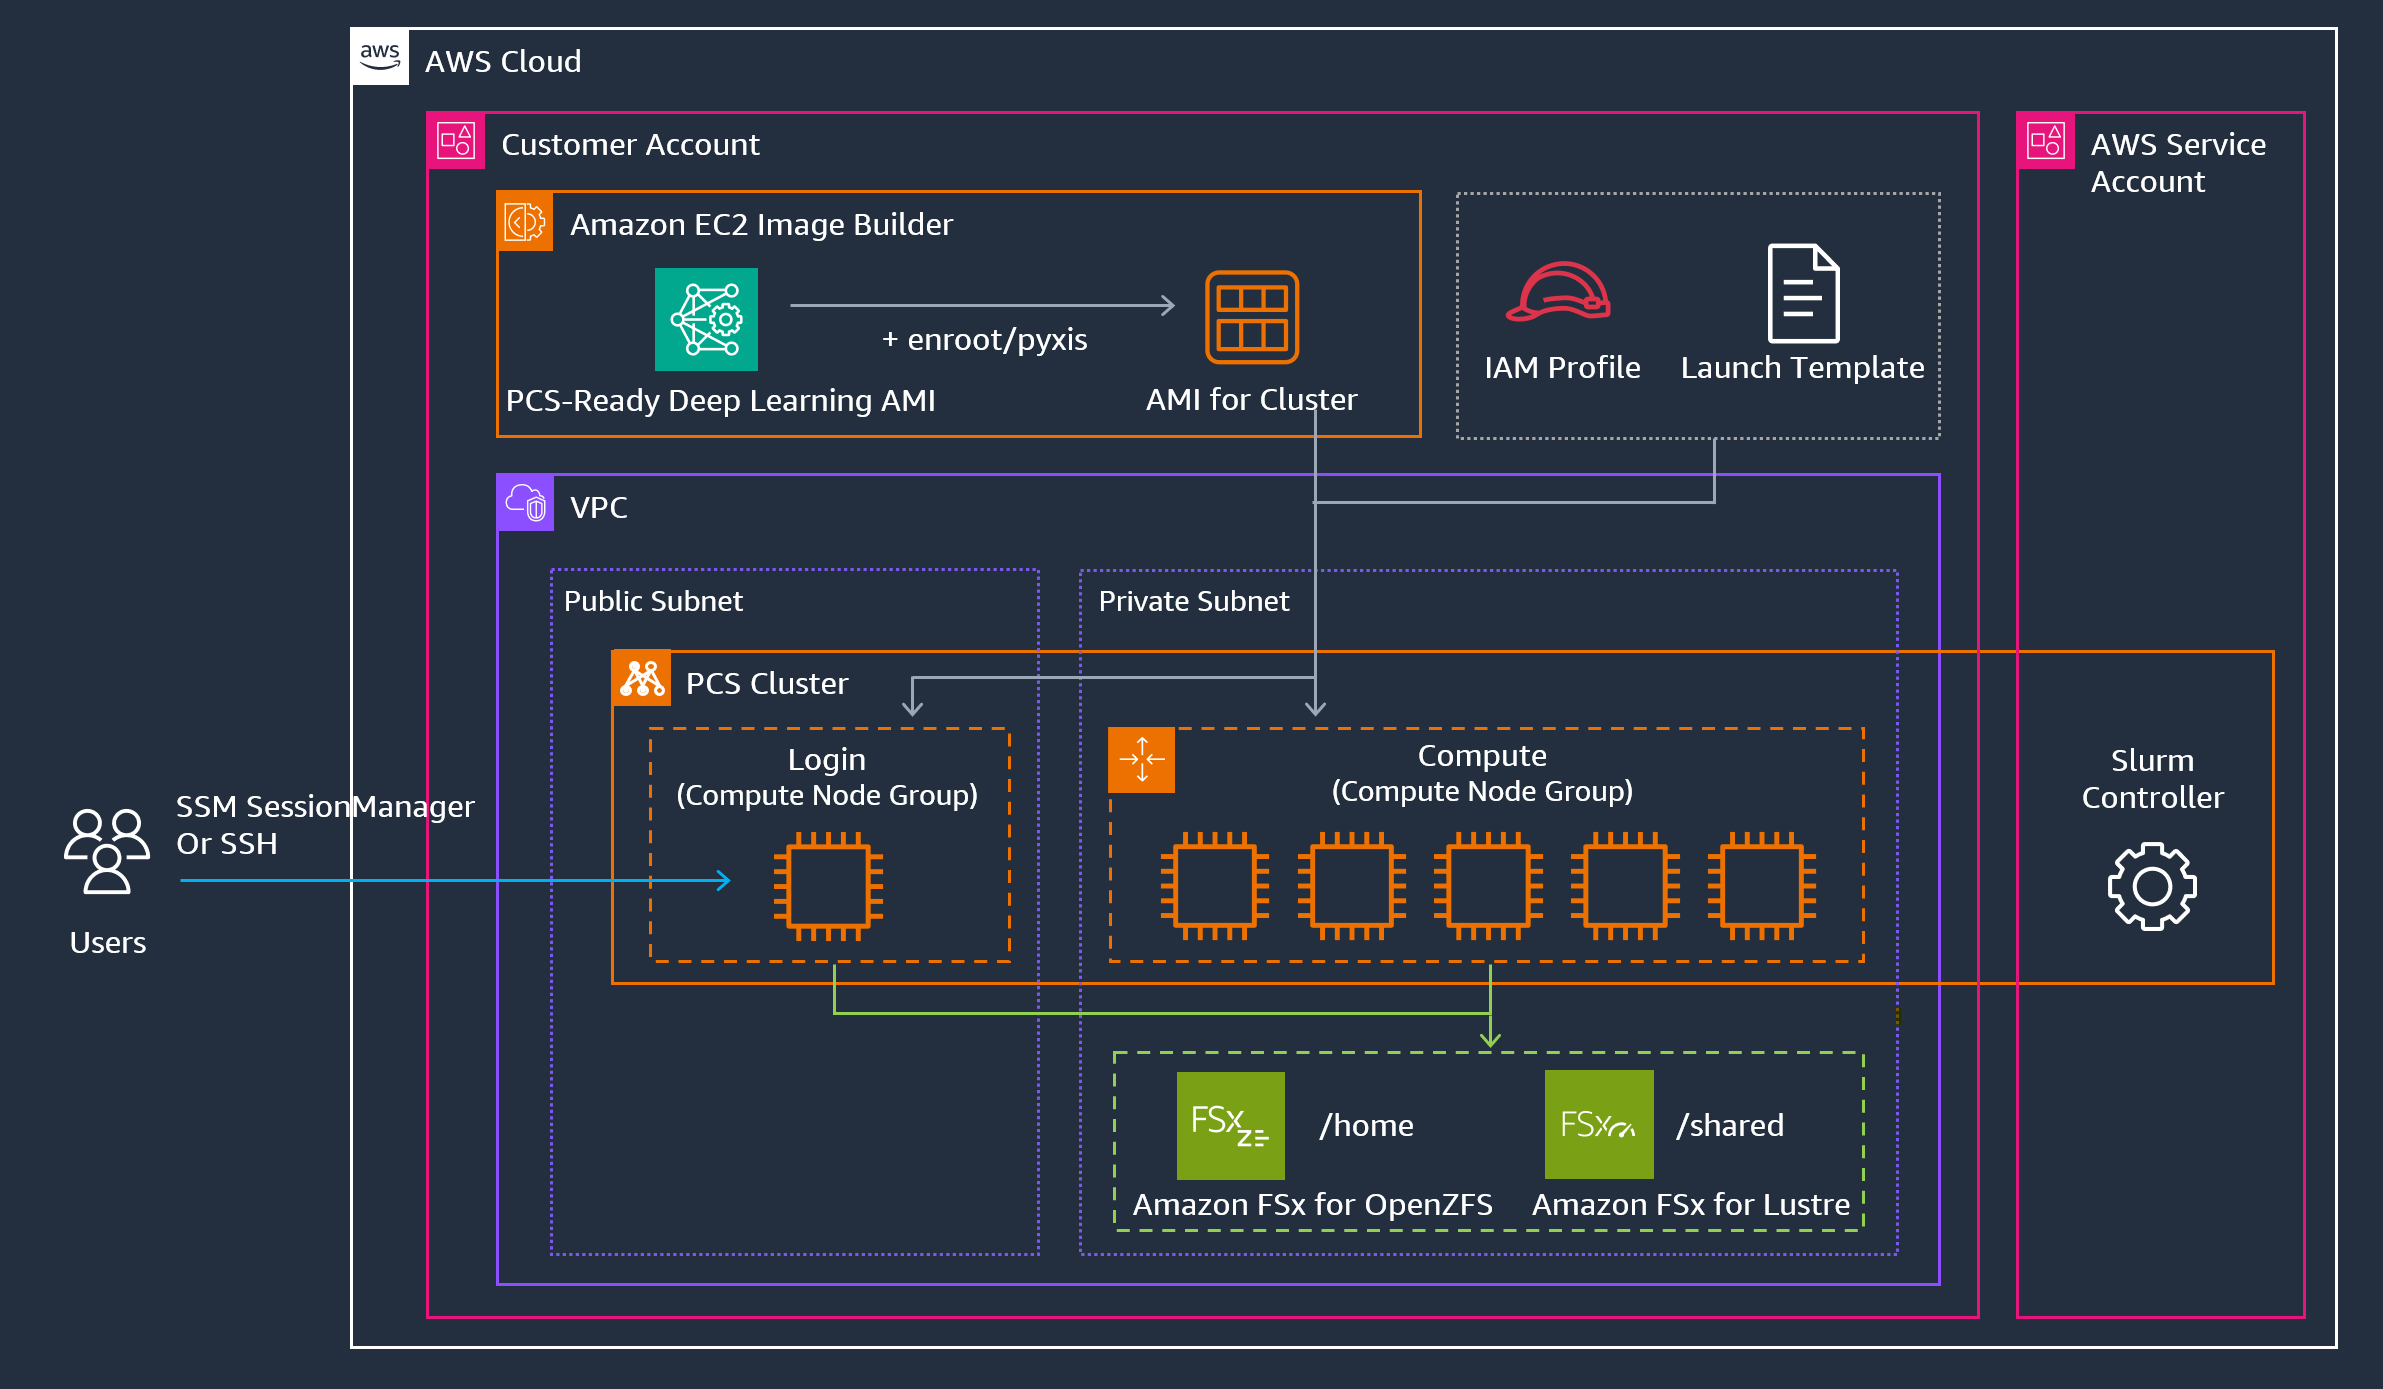
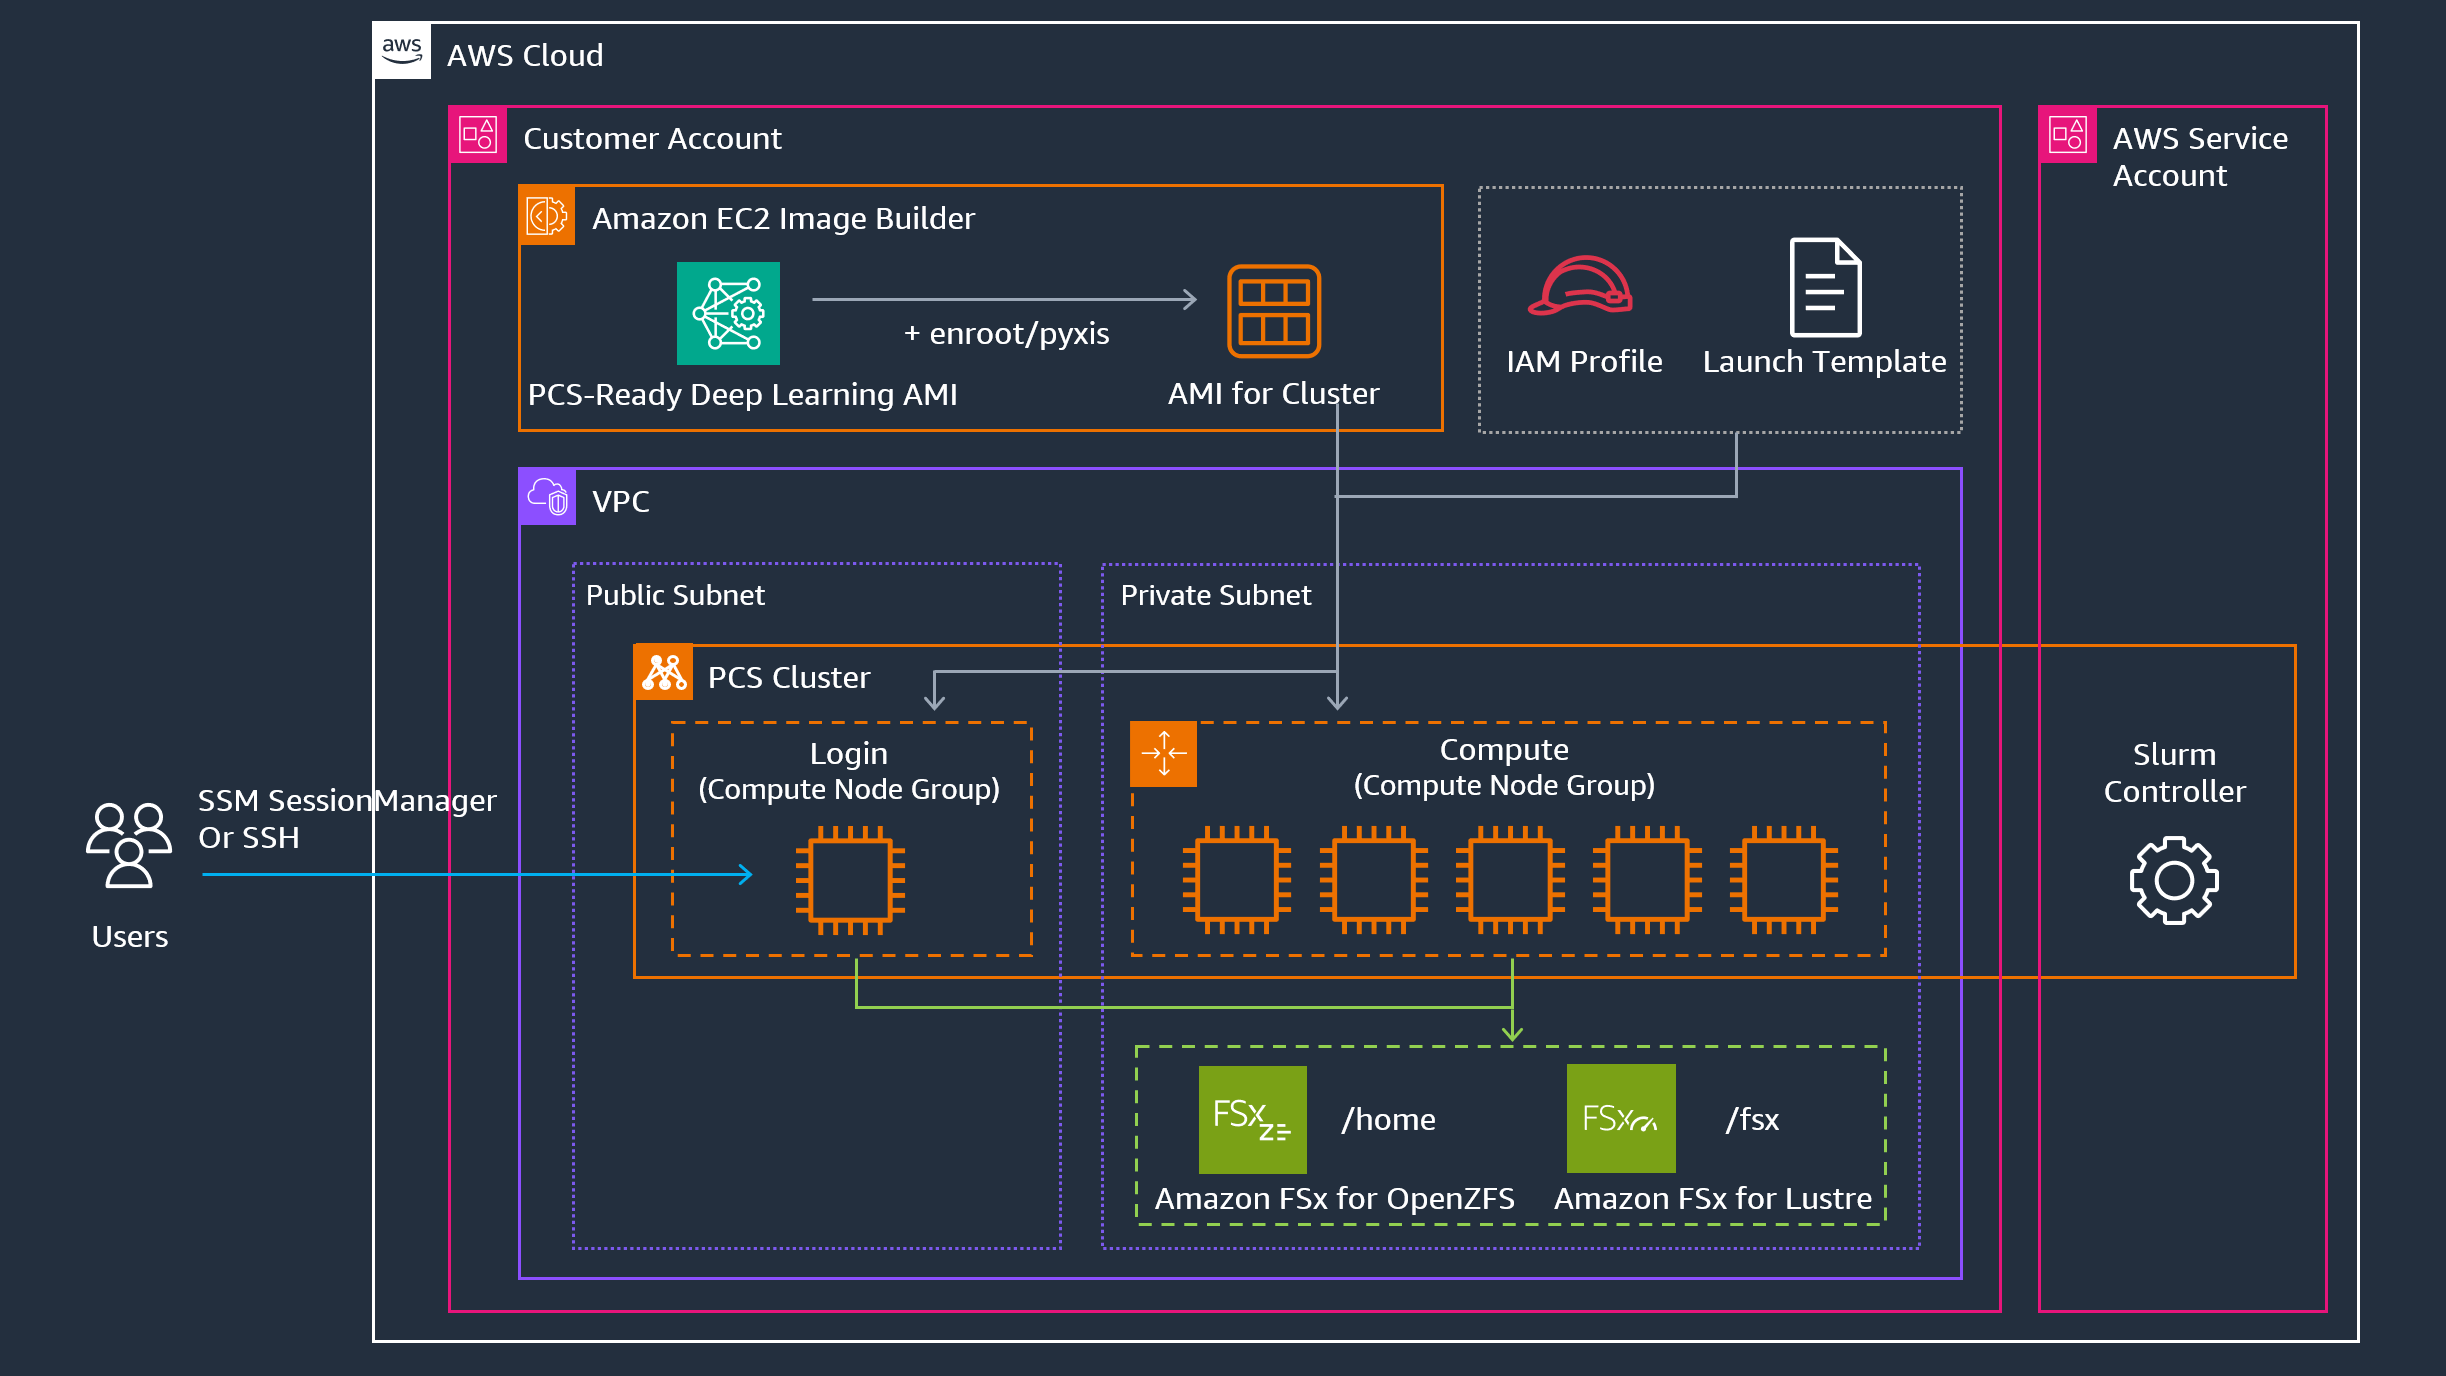
update architecture image

diff --git a/1.architectures/9.aws-pcs/README.md b/1.architectures/9.aws-pcs/README.md
@@ -190,13 +190,13 @@ aws cloudformation create-stack \
 
 ```bash
 aws cloudformation create-stack \
-  --stack-name p5-cluster \
+  --stack-name p5-odcr-cluster \
   --template-url https://awsome-distributed-ai.s3.amazonaws.com/templates/pcs-ml-cluster-deploy-all.yaml \
   --parameters \
     ParameterKey=PrimarySubnetAZ,ParameterValue=us-east-1a \
     ParameterKey=DeployPseriesCNG,ParameterValue=true \
     ParameterKey=PseriesCngName,ParameterValue=p5-odcr \
-    ParameterKey=PseriesQueueName,ParameterValue=p5 \
+    ParameterKey=PseriesQueueName,ParameterValue=p5-odcr \
     ParameterKey=PseriesInstanceType,ParameterValue=p5.48xlarge \
     ParameterKey=NetworkInterfaceCount,ParameterValue=32 \
     ParameterKey=PseriesMinCount,ParameterValue=4 \
@@ -211,13 +211,13 @@ aws cloudformation create-stack \
 CAPACITY_RESERVATION_ID="cr-0a1b2c3d4e5f6g7h8"
 
 aws cloudformation create-stack \
-  --stack-name p5-cluster \
+  --stack-name p5-cb-cluster \
   --template-url https://awsome-distributed-ai.s3.amazonaws.com/templates/pcs-ml-cluster-deploy-all.yaml \
   --parameters \
     ParameterKey=PrimarySubnetAZ,ParameterValue=us-east-1a \
     ParameterKey=DeployPseriesCNG,ParameterValue=true \
     ParameterKey=PseriesCngName,ParameterValue=p5-cb \
-    ParameterKey=PseriesQueueName,ParameterValue=p5 \
+    ParameterKey=PseriesQueueName,ParameterValue=p5-cb \
     ParameterKey=PseriesInstanceType,ParameterValue=p5.48xlarge \
     ParameterKey=NetworkInterfaceCount,ParameterValue=32 \
     ParameterKey=PseriesMinCount,ParameterValue=4 \